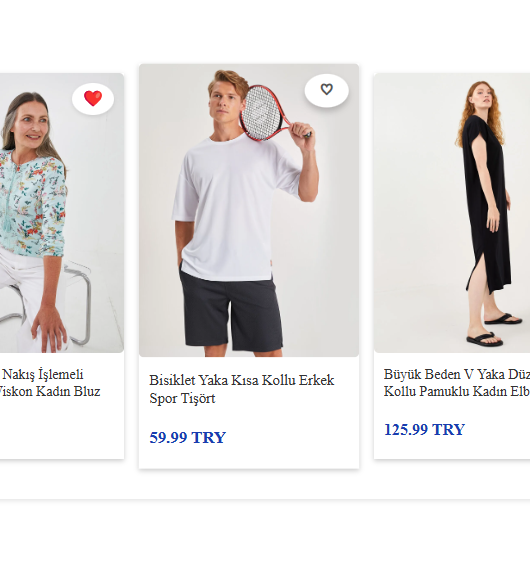
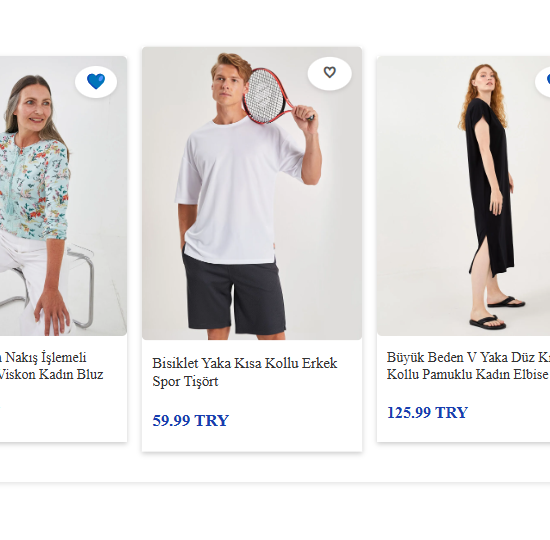
Insider task submission

diff --git a/yasin_sefa_aksoy.js b/yasin_sefa_aksoy.js
@@ -26,6 +26,156 @@ function loadStyles() {
 }
 loadStyles();
 
+const buildCSS = () => {
+    const css = `
+    .custom-carousel {
+        margin-top: 30px;
+        background: #fff;
+        padding: 20px;
+        box-shadow: 0 2px 5px rgba(0, 0, 0, 0.1);
+        border-radius: 10px;
+        max-width: 100%;
+        overflow: hidden;
+    }
+    .carousel-title {
+        font-size: 30px;
+        font-weight: bold;
+        margin: 15px 10px;
+    }
+    .carousel-container {
+        display: flex;
+        align-items: center;
+        position: relative;
+        overflow: hidden;
+        width: 100%;
+    }
+    .carousel-items {
+        display: flex;
+        gap: 15px;
+        overflow-x: auto;
+        scroll-behavior: smooth;
+        white-space: nowrap;
+        padding: 20px 0;
+        width: 100%;
+        -ms-overflow-style: none; 
+        scrollbar-width: none; 
+    }
+
+    .carousel-items a {
+        text-decoration: none;
+    }
+
+    .carousel-items a:hover {
+        text-decoration: none;
+    }
+
+    .carousel-item {
+        min-width: 210px;
+        max-width: 220px;
+        margin-left: 5px;
+        box-shadow: 0 2px 5px rgba(0, 0, 0, 0.2);
+        background: #fff;
+        display: inline-block;
+        position: relative;
+        transition: transform 0.2s;
+        overflow: hidden;
+    }
+    .carousel-item:hover {
+        transform: scale(1.05);
+    }
+    .carousel-item img {
+        width: 100%;
+        border-radius: 5px;
+        height: auto;
+        object-fit: cover;
+    }
+    .product-title {
+        margin: 10px;
+        font-size: 14px;
+        color: #333;
+        white-space: normal; 
+        overflow: hidden; 
+        text-overflow: ellipsis; 
+        word-wrap: break-word; 
+        line-height: 1.2; 
+    }
+
+
+    .heart-icon {
+        font-size: 14px;
+        margin: px 0;
+        padding: 0 5px;
+        color: #333;
+        font-weight: bold;
+        white-space: normal; 
+        overflow: hidden; 
+        text-overflow: ellipsis; 
+        word-wrap: break-word; 
+        line-height: 1.2; 
+    }
+
+
+    .carousel-item:hover {
+        transform: scale(1.05);
+    }
+        
+    .product-price {
+        font-size: 16px;
+        font-weight: bold;
+        color: #193DB0;
+        margin: 20px 10px;
+    }
+    .carousel-prev, .carousel-next {
+        position: absolute;
+        background: none;
+        color: white;
+        border: none;
+        cursor: pointer;
+        padding: 10px 15px;
+        top: 50%;
+        transform: translateY(-50%);
+        z-index: 10;
+        border-radius: 50%;
+        color: rgba(0, 0, 0, 0.5); 
+        font-size: 50px;
+    }
+    .carousel-prev { left: -10px; }
+    .carousel-next { right: -10px; }
+    .heart-icon {
+        position: absolute;
+        top: 10px;
+        right: 10px;
+        width: 32px; 
+        height: 32px;
+        background: white; 
+        border-radius: 50%; 
+        display: flex;
+        align-items: center;
+        justify-content: center;
+        box-shadow: 0 2px 4px rgba(0, 0, 0, 0.1); 
+        cursor: pointer;
+        transition: background 0.3s ease, box-shadow 0.3s ease;
+    }
+    .heart-icon:hover {
+        box-shadow: 0 4px 6px rgba(0, 0, 0, 0.2); 
+    }
+    .heart-icon::before {
+        content: "♡"; 
+        font-size: 18px;
+        color: #555;
+        transition: color 0.3s ease;
+    }
+    .heart-icon.active {
+        background: white; 
+    }
+    .heart-icon.active::before {
+        content: "💙";  
+        color: blue; 
+    }
+    `;
+
+    $('<style>').addClass('carousel-style').html(css).appendTo('head');
+};
 
 
 function buildHTML() {
@@ -100,6 +250,7 @@ function setCarouselScroll() {
 
 (async function init() {
     buildHTML();
+    buildCSS();
     await populateCarousel();
 })();
 
